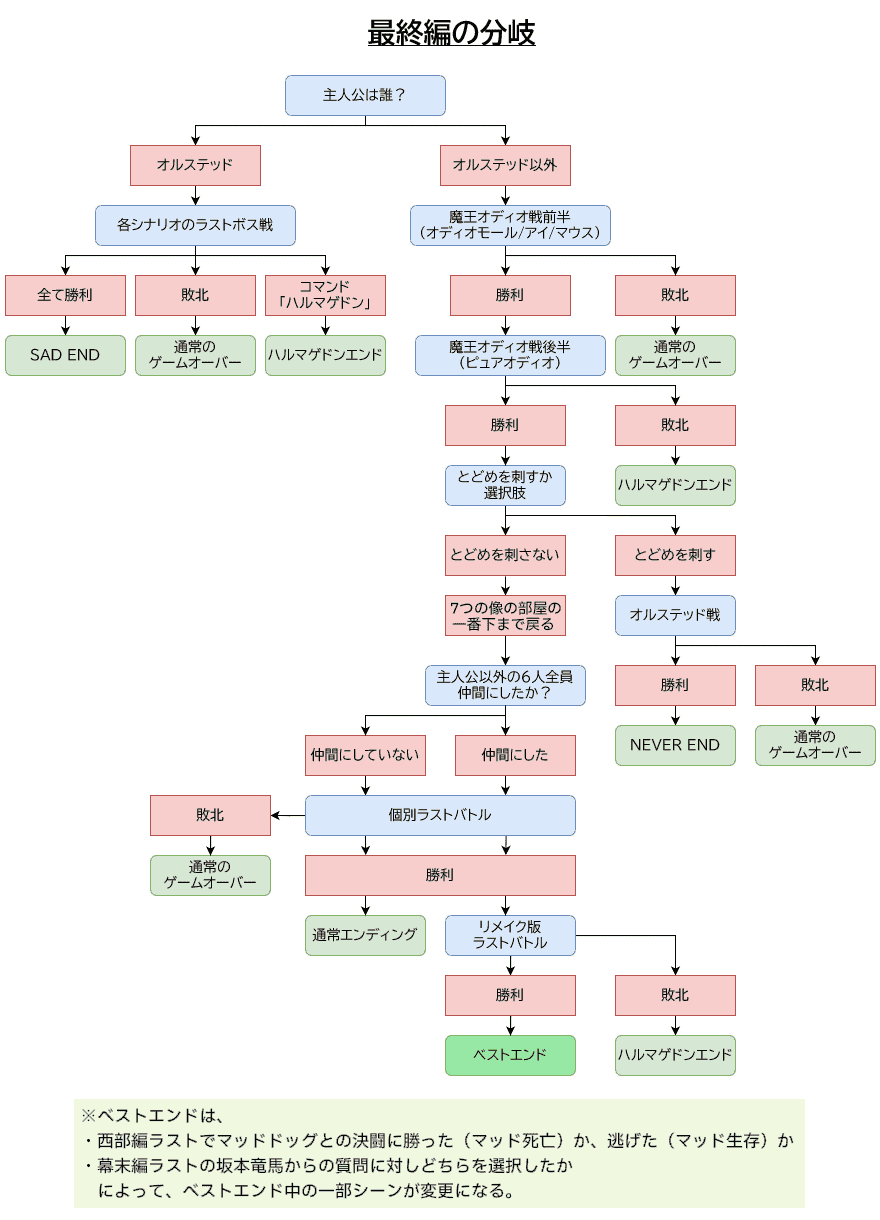
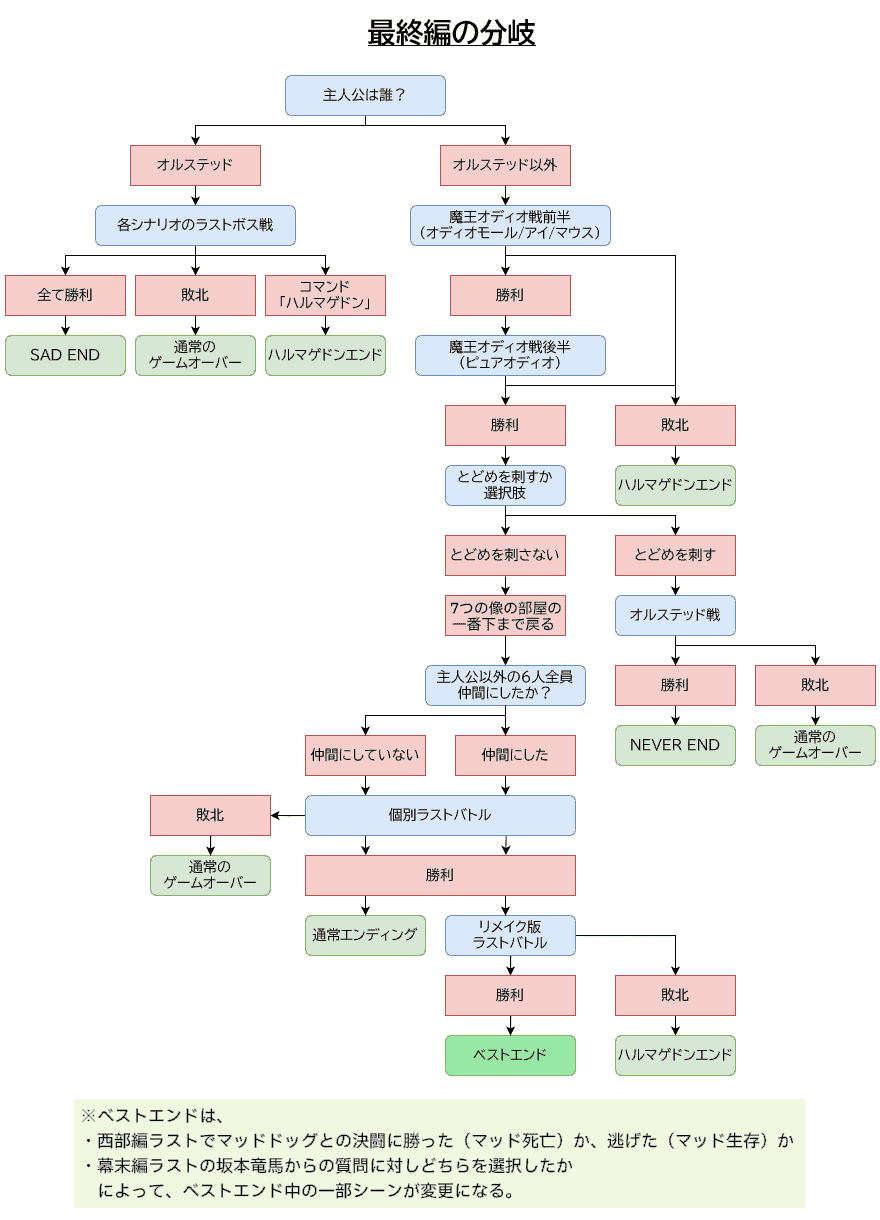
updated

Changed region(s): [[0.675, 0.218, 0.8591, 0.3115]]

diff --git a/sfc/analysis/program42.html b/sfc/analysis/program42.html
@@ -7,7 +7,7 @@
 <meta name="format-detection" content="telephone=no">
 <meta name="msapplication-TileImage" content="../img/social.png">
 <meta name="description" content="スーパーファミコン版「ライブ・ア・ライブ」の攻略です。システム解説・隠しボス攻略・マップ画像あり。各シナリオのやりこみ、元ネタ＆雑学紹介コーナーなども掲載。バーチャルコンソール版対応。">
-<meta property="og:title" content="ライブ・ア・ライブ（SFC版） 攻略メモ帳 &gt; プログラミング関係解説＆調査 &gt; アイテム並び替え</head>
+<meta property="og:title" content="ライブ・ア・ライブ（SFC版） 攻略メモ帳 &gt; プログラミング関係解説＆調査 &gt; アイテム並び替え">
 <meta property="og:type" content="website">
 <meta property="og:url" content="https://livealive.client.jp/sfc/">
 <meta property="og:image" content="https://livealive.client.jp/sfc/img/social.png">
@@ -186,7 +186,8 @@ table {
 	<li>装備先：装備アイテム優先で並び替える。装備アイテム以外はそのまま上に詰める。</li>
 </ul>
 
-<p>というようにソートしてくれるのだが、実際のサブルーチンはどうなっているのかを確認してみた。</p>
+<p>というようにソートしてくれるのだが、実際のサブルーチンはどうなっているのかを確認してみた。<br>
+また、ソートとは別機能だが、アイテム入れ替えについても最後に記してある。</p>
 
 <p>ちなみに、「装備先」の場合、装備品を、<br>
 主装備位置が頭→右→左→体→足→アクセサリー→自由<br>
@@ -304,7 +305,9 @@ table {
 	<li><code>MVN</code>（データ転送）を使って、整頓用メモリアドレスから元のメモリアドレス（<code>$00:0B01</code>～<code>$00:0BFF</code>, <code>$00:0C01</code>～<code>$00:0CFF</code>）に書き戻す。</li>
 </ol>
 
-<p>と、なっている。</p>
+<p>と、なっている。<br>
+ちなみに、持ち物欄を開いた時点で、1.のコピー作業が一度行われている。<br>
+このため、整頓前には、<code>$7E:8A00</code>～<code>$7E:8AFE</code>, <code>$7E:8B00</code>～<code>$7E:8BFE</code>を一度リセット（すべてに00を書き込む）してから、各種整頓処理を行う。</p>
 
 <p>実際のソートの前に、メニュー画面を開いた時の処理で、<code>[$00:0555]</code>と<code>[$00:0559]</code>に書き込まれる値が重要になるので、まずそちらを紹介する。<br>
 <code>[$00:0555]</code>は、シナリオによるアイテムID記録アドレスの開始位置、<code>[$00:0559]</code>はシナリオによるアイテム種類最大所持数が入る仕組みである。</p>
@@ -1046,6 +1049,144 @@ $C2/63BC JSR $6301  [$C2:6301]   ;[$C2:6301]へジャンプ
 
 <p>以上が持ち物欄における整頓処理である。</p>
 
+<h4>アイテム入れ替え</h4>
+
+<p>アイテムの入れ替えは、</p>
+
+<ol>
+	<li>カーソル位置の交換元アイテムをAボタンで選択</li>
+	<li>カーソルを動かして、交換先アイテムをAボタンで選択で入れ替え</li>
+</ol>
+
+<p>というように行うため、カーソル位置が記録されるアドレスが重要である。<br>
+カーソル位置が入るアドレスは、<br>
+<code>[$00:0544]</code><code>[$00:0545]</code><br>
+の2バイトで、現在のカーソル位置の値が入る。<br>
+このアドレスには、メニュー画面であればどの階層（ページ）でもカーソルの位置が入る。<br>
+持ち物欄なら、左上から右下へ、順に<span class="formula">$0000</span>から番号が入る、といったような処理である。<br>
+隊形なら4キャラ分の位置、<span class="formula">$0000</span>～<span class="formula">$0003</span>が入る。</p>
+
+<p>もうひとつ重要なのが、「カーソル位置の何かをAボタンで選択している状態」を記録するアドレスである。<br>
+<code>[$00:0565]</code>～<code>[$00:0568]</code>に記録されるのだが、まずこのアドレスに入る値の処理が持ち物欄を開いた時に行われる。<br>
+（先に記したが、アイテム一覧のアイテムIDと個数のメモリアドレス内容（<code>$00:0B01</code>～<code>$00:0BFF</code>, <code>$00:0C01</code>～<code>$00:0CFF</code>）を、整頓用に確保してあるメモリアドレス（<code>$7E:8A00</code>～<code>$7E:8AFE</code>, <code>$7E:8B00</code>～<code>$7E:8BFE</code>）にコピーすることも、持ち物欄を開いた時点で行っている）</p>
+
+<div class="code-container"><pre>
+$C2/0EA5 LDA #$FFFF              ;Aに$FFFFをロード
+$C2/0EA8 STA $65    [$00:0565]   ;Aを[$00:0566][$00:0565]に書き込み
+$C2/0EAA STA $67    [$00:0567]   ;Aを[$00:0568][$00:0567]に書き込み
+$C2/0EAC LDX #$7DF9              ;Aに$7DF9をロード
+$C2/0EAF JSR $35AD  [$C2:35AD]   ;[$C2:35AD]へジャンプ
+</pre></div>
+
+<p>上の処理で、<code>[$00:0565]</code>～<code>[$00:0568]</code>の4バイト分すべて<span class="formula">$FF</span>で埋まる。<br>
+さて、Aボタンで交換元のアイテムを選ぶと以下のような処理になる。</p>
+
+<div class="code-container"><pre>
+$C2/0651 BCS $03    [$0656]      ;キャリーフラグが立っているとき[$0656]分岐
+$C2/0653 JMP ($0532)[$C2:0BB9]   ;[$C2:0BB9]へジャンプ(レジスタをスタックに積まない)
+$C2/0BB9 LDA $65    [$00:0565]   ;Aに[$00:0566][$00:0565]($FFFF)をロード
+$C2/0BBB BPL $13    [$0BD0]      ;ネガティブフラグが立っていないとき[$0BD0]分岐
+;ネガティブフラグON
+$C2/0BBD LDA $44    [$00:0544]   ;Aに[$00:0545][$00:0544](現在のカーソル位置)をロード
+$C2/0BBF CLC                     ;キャリーフラグクリア
+$C2/0BC0 ADC $36    [$00:0536]   ;A + [$00:0537][$00:0536]（初期値$0000）
+$C2/0BC2 AND #$00FF              ;Aと$00FFで論理積
+$C2/0BC5 STA $65    [$00:0565]   ;Aを[$00:0566][$00:0565]に書き込み
+$C2/0BC7 LDA #$0200              ;Aに$0200をロード
+$C2/0BCA JSR $4281  [$C2:4281]   ;[$C2:4281]へジャンプ
+</pre></div>
+
+<p><code>[$00:0566]</code><code>[$00:0565]</code>のネガティブフラグ判定は、「Aボタンで既に何かを選択しているかどうか」である。<br>
+初期状態で<span class="formula">$FFFF</span>が入っており、Aボタンで何か選択していない状態である。<br>
+この時にAボタンを押すと、<code><span class="r">$C2/0BBD</span></code>～の処理を行い、<code>[$00:0545]</code><code>[$00:0544]</code>(カーソル位置)を<code>[$00:0566]</code><code>[$00:0565]</code>に上書きする。</p>
+
+<p>続いて、交換先アイテム位置にカーソルを移動する。<br>
+<code>[$00:0545]</code><code>[$00:0544]</code>(現在のカーソル位置)が更新されることになる。<br>
+この上でAボタンを押すと、交換元アイテムと交換先アイテムが交換されるが、それが以下処理である。</p>
+
+<div class="code-container"><pre>
+$C2/0651 BCS $03    [$0656]      ;キャリーフラグが立っているとき[$0656]分岐
+$C2/0653 JMP ($0532)[$C2:0BB9]   ;[$C2:0BB9]へジャンプ(レジスタをスタックに積まない)
+$C2/0BB9 LDA $65    [$00:0565]   ;Aに[$00:0566][$00:0565]（交換元アイテム位置）をロード
+$C2/0BBB BPL $13    [$0BD0]      ;ネガティブフラグが立っていないとき[$0BD0]分岐
+;ネガティブフラグOFF
+$C2/0BD0 LDA $44    [$00:0544]   ;Aに[$00:0545][$00:0544]（現在のカーソル位置）をロード
+$C2/0BD2 CLC                     ;キャリーフラグクリア
+$C2/0BD3 ADC $36    [$00:0536]   ;A + [$00:0537][$00:0536]（初期値$0000）
+$C2/0BD5 AND #$00FF              ;Aと$00FFで論理積
+$C2/0BD8 STA $67    [$00:0567]   ;A（現在のカーソル位置）を[$00:0568][$00:0567]に書き込み
+$C2/0BDA LDA $000050[$00:0050]   ;Aに[$00:0051][$00:0050]をロード
+$C2/0BDE AND #$000F              ;Aと$000Fで論理積
+$C2/0BE1 CMP #$0004              ;Aと$0004を減算比較（ステータスレジスタ変更のみ）
+$C2/0BE4 BEQ $4E    [$0C34]      ;ゼロフラグが立っているとき[$0C34]分岐
+$C2/0BE6 CMP #$0005              ;Aと$0005を減算比較（ステータスレジスタ変更のみ）
+$C2/0BE9 BEQ $44    [$0C2F]      ;ゼロフラグが立っているとき[$0C2F]分岐
+$C2/0BEB LDA $67    [$00:0567]   ;Aに[$00:0568][$00:0567]（現在のカーソル位置）をロード
+$C2/0BED CMP $65    [$00:0565]   ;Aと[$00:0566][$00:0565]（交換元アイテム位置）を減算比較
+$C2/0BEF BEQ $6A    [$0C5B]      ;ゼロフラグが立っているとき[$0C5B]分岐
+;ゼロフラグOFF（交換元と交換先のアイテム位置が同一ではない）
+$C2/0BF1 LDX $65    [$00:0565]   ;Xに[$00:0566][$00:0565]をロード
+$C2/0BF3 LDY $67    [$00:0567]   ;Yに[$00:0568][$00:0567]をロード
+$C2/0BF5 SEP #$20                ;MフラグON　Aレジスタは8bit幅
+$C2/0BF7 LDA $8A00,x             ;Aに[$8A00,x]（交換元アイテムID）をロード
+$C2/0BFA XBA                     ;Aレジスタの上位バイトと下位バイトを交換
+$C2/0BFB LDA $8A00,y             ;Aに[$8A00,y]（交換先アイテムID）をロード
+$C2/0BFE STA $8A00,x             ;Aを[$8A00,x]に書き込み
+$C2/0C01 XBA                     ;Aレジスタの上位バイトと下位バイトを交換
+$C2/0C02 STA $8A00,y             ;Aを[$8A00,y]に書き込み
+$C2/0C05 LDA $8B00,x             ;Aに[$8B00,x]（交換元アイテム個数）をロード
+$C2/0C08 XBA                     ;Aレジスタの上位バイトと下位バイトを交換
+$C2/0C09 LDA $8B00,y             ;Aに[$8B00,y]（交換先アイテム個数）をロード
+$C2/0C0C STA $8B00,x             ;Aを[$8B00,x]に書き込み
+$C2/0C0F XBA                     ;Aレジスタの上位バイトと下位バイトを交換
+$C2/0C10 STA $8B00,y             ;Aを[$8B00,y]に書き込み
+$C2/0C13 REP #$20                ;Aを16bit幅に変更、Mフラグをクリア
+$C2/0C15 JSR $4514  [$C2:4514]   ;[$C2:4514]へジャンプ
+</pre></div>
+
+<p>まず<code><span class="r">$C2/0BBB</span></code>で<code>[$00:0566]</code><code>[$00:0565]</code>のネガティブフラグ判定だが、先ほど、<code>[$00:0566]</code><code>[$00:0565]</code>には交換元アイテムの位置が入っており、上位バイトの<code>[$00:0566]</code>は<span class="formula">$00</span>なので、ネガティブフラグが立たない。<br>
+よって、<code><span class="r">$C2/0BD0</span></code>に進む。つまり、何かのアイテムが選択されている時の処理に進む。<br>
+続いて、<code>[$00:0545]</code><code>[$00:0544]</code>（現在のカーソル位置）を<code>[$00:0568]</code><code>[$00:0567]</code>に書き込む。<br>
+<code>[$00:0568]</code><code>[$00:0567]</code>にはこれまで$FFFFが入っていたが、ここで交換先のアイテム位置が書き込まれたことになる。</p>
+
+<p><code><span class="r">$C2/0BDA</span></code>～の<code>[$00:0051]</code><code>[$00:0050]</code>だが、メニュー画面を開いた時点で以下処理で<span class="formula">$0003</span>が入っており、持ち物欄でも変化しない。</p>
+
+<div class="code-container"><pre>
+$C0/08BA LDA #$03                ;Aに$03をロード
+$C0/08BC STA $50    [$00:0050]   ;Aを[$00:0050]に書き込み
+$C0/08BE JSR $0DCC  [$C0:0DCC]   ;[$C0:0DCC]へジャンプ
+</pre></div>
+
+<p>このため、<code><span class="r">$C2/0BEB</span></code>まで処理が進む。<br>
+<code><span class="r">$C2/0BEB</span></code>からは、<code>[$00:0568]</code><code>[$00:0567]</code>と<code>[$00:0566]</code><code>[$00:0565]</code>の減算比較だが、<code>[$00:0568]</code><code>[$00:0567]</code>は交換先アイテムの位置、<code>[$00:0566]</code><code>[$00:0565]</code>は交換元アイテムの位置が入っている。<br>
+<code><span class="r">$C2/0BEF</span></code>でゼロフラグ判定をしているが、ここでゼロフラグが立つのは、交換先アイテムと交換元アイテムが同じ位置にある時のみである。<br>
+この場合は交換処理をする必要がないので分岐処理になる。<br>
+ゼロフラグが立たない時は、交換先アイテムと交換元アイテムが別の位置にある場合である。<br>
+よって、<code><span class="r">$C2/0BF1</span></code>からが交換処理になる。</p>
+
+<p><code><span class="r">$C2/0BF1</span></code>からは、</p>
+
+<ul>
+	<li><code>X</code>に交換元アイテムの位置<code>[$00:0566]</code><code>[$00:0565]</code></li>
+	<li><code>Y</code>に交換先アイテムの位置<code>[$00:0568]</code><code>[$00:0567]</code></li>
+</ul>
+
+<p>をロードし、まず<code>A</code>に<code>[$8A00,x]</code>、つまり整頓用メモリアドレスのアイテムIDを格納してある<code>[$7E:8Axx]</code>をロードする。<br>
+<code><span class="r">$C2/0BFA</span></code>の<code>XBA</code>で、<code>A</code>の上位バイトと下位バイトを交換するから、<code>A</code>の上位バイトに交換元アイテムIDが入る。<br>
+更に、<code>A</code>に<code>[$8A00,y]</code>、つまり<code>[$7E:8Ayy]</code>（交換先アイテムID）をロードするので、<code>A</code>の下位バイトに交換先アイテムIDが入る。<br>
+後は、再び<code>XBA</code>を使いつつ、</p>
+
+<ul>
+	<li><code>A</code>の下位バイト（交換先アイテムID）→<code>[$8A00,x]</code>（交換元のアドレス）</li>
+	<li><code>A</code>の上位バイト（交換元アイテムID）→<code>[$8A00,y]</code>（交換先のアドレス）</li>
+</ul>
+
+<p>と処理して、アイテムIDを入れ替える。</p>
+
+<p><code><span class="r">$C2/0C05</span></code>～<code><span class="r">$C2/0C10</span></code>は同じ処理をアイテム個数の<code>[$8B00,x]</code>と<code>[$8B00,y]</code>で行っている。<br>
+これで、交換元・交換先のアイテムIDとアイテム個数が入れ替えられた。<br>
+ジャンプ先の<code><span class="r">$C2/4514</span></code>～<code><span class="r">$C2/453C</span></code>は既に上で紹介した<code>$7E:8A00</code>～<code>$7E:8AFE</code>, <code>$7E:8B00</code>～<code>$7E:8BFE</code>を、<code>$00:0B01</code>～<code>$00:0BFF</code>, <code>$00:0C01</code>～<code>$00:0CFF</code>に書き戻すサブルーチンなので、紹介は省く。<br>
+交換したアイテムは2種類だけだが、その部分だけ書き戻しではなく、持ち物欄すべて書き戻しになる。</p>
 
 <script>//ソースコード色分け処理
 window.addEventListener("DOMContentLoaded",()=>{let P=document.querySelectorAll(".code-container pre"),n=RegExp("\\b(LDA|LDX|LDY|STA|STX|STY|STZ|TAX|TAY|TYA|TXA|TSX|TXS|TXY|TYX|TAD|TDA|TAS|TSA|XBA|PEA|PEI|PER|PHA|PHP|PHX|PHY|PLA|PLP|PLX|PLY|PHB|PHD|PHK|PLB|PLD|ADC|SBC|INC|INX|INY|DEC|DEX|DEY|ORA|AND|EOR|BIT|TRB|TSB|CMP|CPX|CPY|SEC|CLC|SEP|REP|SED|CLD|SEI|CLI|CLV|XCE|BCC|BCS|BEQ|BNE|BMI|BPL|BVC|BVS|BRA|BRL|JMP|JML|JSR|JSL|RTS|RTL|RTI|ASL|LSR|ROL|ROR|MVP|MVN|NOP|STP|BRK|COP|WAI|WDM)\\b","g");P.forEach(P=>{let L=P.innerHTML.split("\n").map(P=>{if(""===P.trim())return P;let L=(P=P.replace(/^(\$..\/....)/,'<span class="r">$1</span>')).split(/(;.*)/);return L[0]&&(L[0]=L[0].replace(n,'<span class="mnemonic">$1</span>')),L[1]&&(L[1]=`<span class="comment">${L[1]}</span>`),L.join("")});P.innerHTML=L.join("\n")})});

diff --git a/re_saishu/odio.html b/re_saishu/odio.html
@@ -117,11 +117,18 @@
 <p>リメイク版では、魔王オディオ戦で細かい変更が幾つかあり、SFC版と同じと思っていると勘違いしやすい点があるためここにまとめておく。</p>
 
 <ul>
+	<li><a href="#00">ハルマゲドン</a></li>
 	<li><a href="#01">ライブイレイザー</a></li>
 	<li><a href="#02">デスパースペース</a></li>
 	<li><a href="#03">ピュアオディオの初期位置と向き</a></li>
 	<li><a href="#04">ピュアオディオ出現時の吹き飛ばし</a></li>
 </ul>
+
+<h3 id="00">ハルマゲドン</h3>
+
+<p>SFC版ではオディオモール・アイ・マウス～ピュアオディオ戦のピュアオディオ出現後にゲームオーバーになるとハルマゲドンエンド（ただし、「ハルマゲドン」という表示なし）だったが、リメイク版ではオディオモール・アイ・マウス～ピュアオディオ戦通してゲームオーバーになるとハルマゲドンエンドとなる。<br>
+また、画面上部に「ハルマゲドン」という表示も出るようになった。<br>
+（個別ラストバトルでゲームオーバー時は通常のゲームオーバーになるのはSFC版のまま）</p>
 
 <h3 id="01">ライブイレイザー</h3>
 

diff --git a/sfc/analysis/datamap.html b/sfc/analysis/datamap.html
@@ -363,7 +363,7 @@ table {
 	<tr><td><code>$C0:B83E</code>～<code>$C0:B8E5</code></td><td>マップ用・コントローラーのボタンを押したか判定ループ（<code>[$00:4212][$00:4218]</code>のチェック）</td></tr>
 	<tr><td><code>$C0:B900</code>～<code>$C0:B924</code></td><td>マップ乱数計算</td></tr>
 	<tr><td><code>$C0:BA16</code>～<code>$C0:BA75</code></td><td>16bit×16bit乗算サブルーチン</td></tr>
-
+	<tr><td><code>$C2:0BB9</code>～<code>$C2:0C15</code></td><td>メニュー画面　カーソル位置をAボタンで選択～もう一か所をカーソル位置指定しAボタンで選択して入れ替え</td></tr>
 	<tr><td><code>$C2:3CB4</code>～<code>$C2:3CCE</code></td><td>セーブデータからのロード</td></tr>
 	<tr><td><code>$C2:3D4D</code>～<code>$C2:3D98</code></td><td>セーブデータへのセーブ</td></tr>
 	<tr><td><code>$C2:42D9</code>～<code>$C2:43B5</code></td><td>指定テキストを<code>$7E:2000</code>～にロードする</td></tr>
@@ -676,7 +676,9 @@ table {
 $00:01D0～D1　セリフ吹き出しの下の▽の位置？ -->
 	<tr><td><code>$00:0200</code></td><td>通常<span class="formula">$00</span>　フィールドでプレイヤーが操作できない時<span class="formula">$01</span>？（セリフ中や、敵シンボルと接触した時）</td></tr>
 	<tr><td><code>$00:020A</code></td><td>フィールド・コントローラ1のボタンを押した判定（合計値が入る）<br>右:<span class="formula">$01</span> / 左:<span class="formula">$02</span> / 下:<span class="formula">$04</span> / 上:<span class="formula">$08</span> / スタートボタン:<span class="formula">$10</span> / セレクトボタン:<span class="formula">$20</span> / Yボタン:<span class="formula">$40</span> / Bボタン:<span class="formula">$80</span></td></tr>
-	<tr><td><code>$00:0544</code></td><td>メニュー画面での現在のカーソル位置（十字ボタンで選択可能な画面における番号）</td></tr>
+	<tr><td><code>$00:0544</code>～<code>$00:0545</code></td><td>メニュー画面での現在のカーソル位置（十字ボタンで選択可能な画面における番号）</td></tr>
+	<tr><td><code>$00:0565</code>～<code>$00:0566</code></td><td>メニュー画面　持ち物欄などでAボタンで何かを選んだ状態</td></tr>
+	<tr><td><code>$00:0567</code>～<code>$00:0568</code></td><td>メニュー画面　持ち物欄などでAボタンで何かを選んだ状態で更に他位置を選択</td></tr>
 	<tr><td><code>$00:0565</code></td><td>現代編　対戦相手画面<br>（通常<span class="formula">$FF</span>、対戦相手を選ぶと値が入る。ナムキャット<span class="formula">$00</span>、エイジャ<span class="formula">$01</span>、トゥーラ・ハン<span class="formula">$02</span>、森部<span class="formula">$03</span>、モーガン<span class="formula">$04</span>、イヤウケア<span class="formula">$05</span>、オディ・オブライト<span class="formula">$07</span><br>※<code>$00:0566</code>は通常<span class="formula">$FF、それ以外<span class="formula">$00</td></tr>
 	<tr><td><code>$00:057D～$00:057E</code></td><td>メニュー画面・コントローラ1のボタン状態出力先</td></tr>
 	<tr><td><code>$00:06B9</code></td><td>現代編　1番目に倒した対戦相手ID（1戦目終わるまでは<span class="formula">$FF</span>）</td></tr>

diff --git a/re_saishu/chui02.html b/re_saishu/chui02.html
@@ -682,9 +682,9 @@ BREAK DOWN対象の敵と共にLEADERとして登場。</p>
 
 <h5>「破滅する世界」</h5>
 
-<p>オルステッドを主人公にして、操作キャラのHPが30％以下になった時、「逃げる」の代わりに出現するコマンド「ハルマゲドン」を使う、或いは、オルステッド以外を主人公にし、ピュアオディオ戦またはリメイク版ラストバトルでゲームオーバーになれば見られる。<br>
+<p>オルステッドを主人公にして、操作キャラのHPが30％以下になった時、「逃げる」の代わりに出現するコマンド「ハルマゲドン」を使う、或いは、オルステッド以外を主人公にし、オディオモール・アイ・マウス～ピュアオディオ戦またはリメイク版ラストバトルでゲームオーバーになれば見られる。<br>
 どちらで見るかは自由。単独取得ならオルステッド主人公で取る方が時間がかからない。<br>
-オルステッド以外が主人公の場合は、ピュアオディオ戦でひたすらパスかステイして相手の攻撃を受けて全滅すれば見られる（「セントアリシア」を食らいやすい真下位置あたりに味方を固めておくと良い）。リメイク版ラストバトルまで進めてからゲームオーバーにするのは時間と手間がかかるのでおすすめしない。<br>
+オルステッド以外が主人公の場合は、オディオモール・アイ・マウス戦開始直後にひたすらパスなどで敵の攻撃をくらえば見られるが（オディオモールに攻撃し「リベンジストーム」を出させて敵全体にバフをかけると少し時間短縮できる）、味方のレベルが低くないとそこそこ時間がかかる。<br>
 オルステッド主人公時の場合は自キャラのHPをうまく調節しなければならないが、直前セーブからすぐ再開可能なので、HP調整に失敗したとしてもやり直す手間はさほどかからない。やるならダメージを食らいやすいガマヘビ変化か、おーでぃーおーあたりが比較的やりやすい。<br>
 「ハルマゲドン」後はスタッフロールが流れるが敗北扱いのため、タイトル画面に戻される。オルステッド主人公時に「SAD END」も見るつもりなら、事前セーブしておくこと。AUTO SAVEをロードしても直前のバトルの状態には戻らない。</p>
 

diff --git a/sfc/analysis/program34.html b/sfc/analysis/program34.html
@@ -7,7 +7,7 @@
 <meta name="format-detection" content="telephone=no">
 <meta name="msapplication-TileImage" content="../img/social.png">
 <meta name="description" content="スーパーファミコン版「ライブ・ア・ライブ」の攻略です。システム解説・隠しボス攻略・マップ画像あり。各シナリオのやりこみ、元ネタ＆雑学紹介コーナーなども掲載。バーチャルコンソール版対応。">
-<meta property="og:title" content="ライブ・ア・ライブ（SFC版） 攻略メモ帳 &gt; プログラミング関係解説＆調査 &gt; ステータス変動</head>
+<meta property="og:title" content="ライブ・ア・ライブ（SFC版） 攻略メモ帳 &gt; プログラミング関係解説＆調査 &gt; ステータス変動">
 <meta property="og:type" content="website">
 <meta property="og:url" content="https://livealive.client.jp/sfc/">
 <meta property="og:image" content="https://livealive.client.jp/sfc/img/social.png">

diff --git a/sfc/analysis/program34_2.html b/sfc/analysis/program34_2.html
@@ -7,7 +7,7 @@
 <meta name="format-detection" content="telephone=no">
 <meta name="msapplication-TileImage" content="../img/social.png">
 <meta name="description" content="スーパーファミコン版「ライブ・ア・ライブ」の攻略です。システム解説・隠しボス攻略・マップ画像あり。各シナリオのやりこみ、元ネタ＆雑学紹介コーナーなども掲載。バーチャルコンソール版対応。">
-<meta property="og:title" content="ライブ・ア・ライブ（SFC版） 攻略メモ帳 &gt; プログラミング関係解説＆調査 &gt; ステータス変動 &gt; 復元処理</head>
+<meta property="og:title" content="ライブ・ア・ライブ（SFC版） 攻略メモ帳 &gt; プログラミング関係解説＆調査 &gt; ステータス変動 &gt; 復元処理">
 <meta property="og:type" content="website">
 <meta property="og:url" content="https://livealive.client.jp/sfc/">
 <meta property="og:image" content="https://livealive.client.jp/sfc/img/social.png">

diff --git a/sfc/analysis/program35.html b/sfc/analysis/program35.html
@@ -7,7 +7,7 @@
 <meta name="format-detection" content="telephone=no">
 <meta name="msapplication-TileImage" content="../img/social.png">
 <meta name="description" content="スーパーファミコン版「ライブ・ア・ライブ」の攻略です。システム解説・隠しボス攻略・マップ画像あり。各シナリオのやりこみ、元ネタ＆雑学紹介コーナーなども掲載。バーチャルコンソール版対応。">
-<meta property="og:title" content="ライブ・ア・ライブ（SFC版） 攻略メモ帳 &gt; プログラミング関係解説＆調査 &gt; セーブデータのセーブ・ロード</head>
+<meta property="og:title" content="ライブ・ア・ライブ（SFC版） 攻略メモ帳 &gt; プログラミング関係解説＆調査 &gt; セーブデータのセーブ・ロード">
 <meta property="og:type" content="website">
 <meta property="og:url" content="https://livealive.client.jp/sfc/">
 <meta property="og:image" content="https://livealive.client.jp/sfc/img/social.png">

diff --git a/sfc/analysis/program36.html b/sfc/analysis/program36.html
@@ -7,7 +7,7 @@
 <meta name="format-detection" content="telephone=no">
 <meta name="msapplication-TileImage" content="../img/social.png">
 <meta name="description" content="スーパーファミコン版「ライブ・ア・ライブ」の攻略です。システム解説・隠しボス攻略・マップ画像あり。各シナリオのやりこみ、元ネタ＆雑学紹介コーナーなども掲載。バーチャルコンソール版対応。">
-<meta property="og:title" content="ライブ・ア・ライブ（SFC版） 攻略メモ帳 &gt; プログラミング関係解説＆調査 &gt; 回復技</head>
+<meta property="og:title" content="ライブ・ア・ライブ（SFC版） 攻略メモ帳 &gt; プログラミング関係解説＆調査 &gt; 回復技">
 <meta property="og:type" content="website">
 <meta property="og:url" content="https://livealive.client.jp/sfc/">
 <meta property="og:image" content="https://livealive.client.jp/sfc/img/social.png">